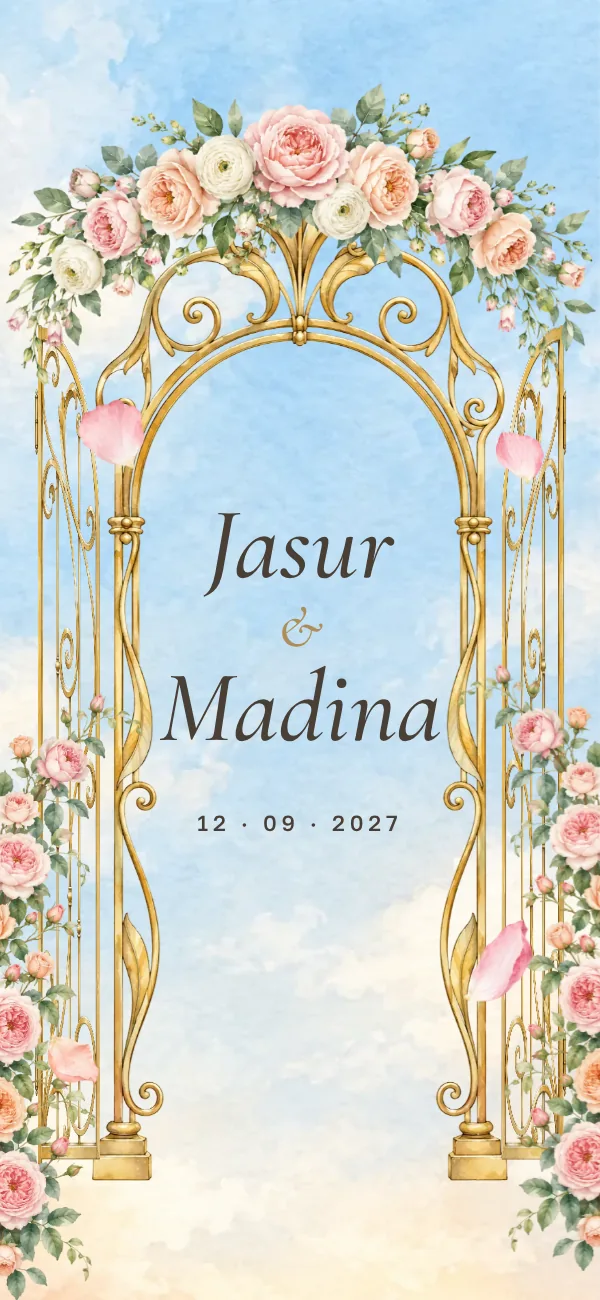
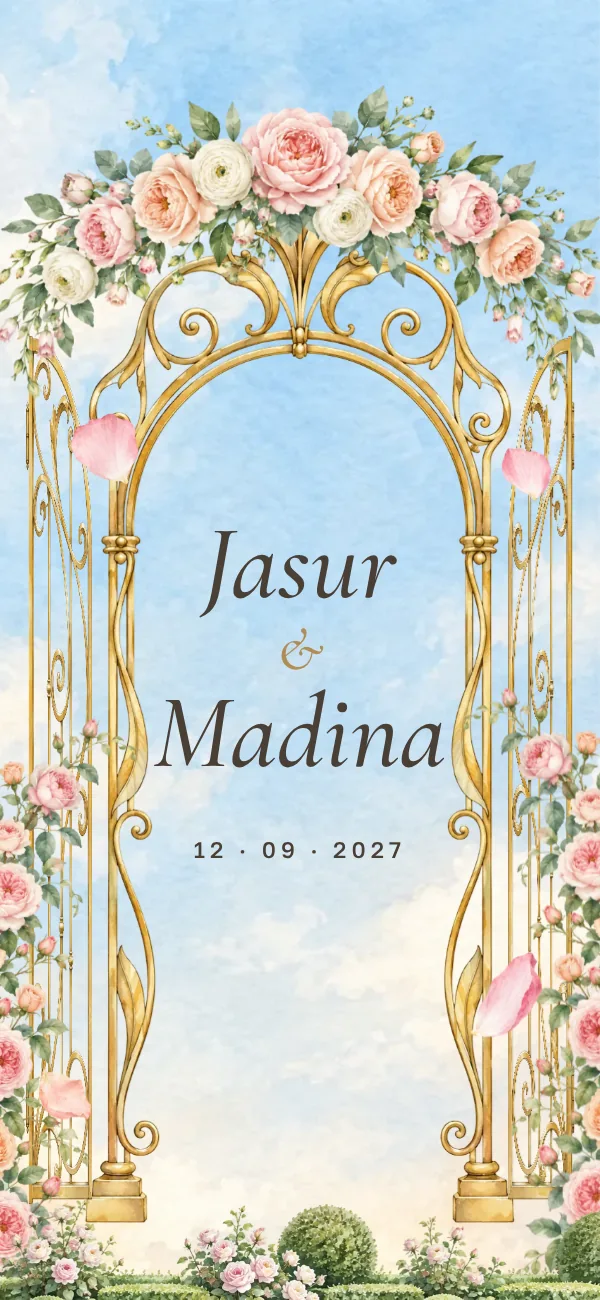
Shato: match Figma hero (920/860 with garden hedge), section heights, dress subtitle, posters
Claude-Session: https://claude.ai/code/session_016Xzx6FBjREiHoteT8V9Jy8

diff --git a/src/components/templates/shato/ShatoSite.tsx b/src/components/templates/shato/ShatoSite.tsx
@@ -318,9 +318,15 @@ function Gate({ d, wide, onReveal, onStart, still = false }: { d: D; wide: boole
   }, [still]);
 
   const W = wide ? 1440 : 390;
-  // sahna koordinatasi: gorizontal markazdan
+  // Figma hero balandligi: laptop 920, mobil 860 — sahna pastki chetiga bog‘langan (ekran baland bo‘lsa, tepada osmon ko‘payadi)
+  const HH = wide ? 920 : 860;
+  // sahna koordinatasi: gorizontal markazdan, vertikal — pastki chetdan
   const X = (x: number) => `calc(50% + ${U(x - W / 2)})`;
-  const box = (r: Box, extra?: CSSProperties): CSSProperties => ({ position: "absolute", left: X(r[0]), top: U(r[1]), width: U(r[2]), height: U(r[3]), ...extra });
+  const Y = (y: number) => `calc(100% - ${U(HH - y)})`;
+  const box = (r: Box, extra?: CSSProperties): CSSProperties => ({ position: "absolute", left: X(r[0]), top: Y(r[1]), width: U(r[2]), height: U(r[3]), ...extra });
+  // keyingi bo‘lim (Xush kelibsiz) butalari — Figma’da hero pastini yopadi; sahifa birligida, shunda ulanishda aynan ustma-ust tushadi
+  const PU = (n: number) => `calc(100cqw / ${W} * ${n})`;
+  const bush = wide ? { x: -180, over: 330, w: 1800, h: 771.43 } : { x: -125, over: 150, w: 640, h: 274.29 };
   const frame: Box = wide ? [460, 40, 520, 924.44] : [-7, 110, 404, 718.22];
   const doors: Box[] = wide
     ? [
@@ -361,7 +367,7 @@ function Gate({ d, wide, onReveal, onStart, still = false }: { d: D; wide: boole
     <div
       ref={wrap}
       className={cx(st.gateWrap, still && st.still)}
-      style={vars(still ? { "--u": `calc(100cqw / ${W})`, height: U(wide ? 900 : 815), marginBottom: 0 } : { "--u": wide ? "min(calc(100cqw / 1440), calc(100svh / 1020))" : "min(calc(100cqw / 390), calc(100svh / 890))" })}
+      style={vars(still ? { "--u": `calc(100cqw / ${W})`, height: U(HH), marginBottom: 0 } : { "--u": `min(calc(100cqw / ${W}), calc(100svh / ${HH}))` })}
     >
       <div className={st.gate} aria-label={t("Taklifnoma")} style={still ? { position: "relative", height: "100%", transform: "none" } : undefined}>
         <div className={st.gSky}>
@@ -388,7 +394,7 @@ function Gate({ d, wide, onReveal, onStart, still = false }: { d: D; wide: boole
           </>
         )}
         {/* Darvoza ramkasi — kamera ichiga kiradi (scale 1→1.8, opacity →0) */}
-        <div className={cx(st.gl, st.gZoom)} style={{ transformOrigin: `50% ${U(wide ? 470 : 420)}` }}>
+        <div className={cx(st.gl, st.gZoom)} style={{ transformOrigin: `50% ${Y(wide ? 470 : 420)}` }}>
           <div style={box(frame)}>
             <div className={cx("size-full", st.fadeIn)} style={{ animationDuration: "1s" }}>
               <Img src={`${P}/darvoza.webp`} eager />
@@ -398,17 +404,17 @@ function Gate({ d, wide, onReveal, onStart, still = false }: { d: D; wide: boole
         {/* Ismlar — chuqurlikdan chiqadi */}
         <div className={cx(st.gl, st.gNames)}>
           <h1 className={cx(st.serifI, "absolute text-center")} style={{ left: X(0), width: U(W), top: 0, height: "100%", color: "var(--ink)", lineHeight: 1 }}>
-            <span className={cx("absolute inset-x-0 flex items-center justify-center", st.nameIn)} style={{ top: U(n1Top), height: U(nameBase), animationDelay: "1.2s" }}>
+            <span className={cx("absolute inset-x-0 flex items-center justify-center", st.nameIn)} style={{ top: Y(n1Top), height: U(nameBase), animationDelay: "1.2s" }}>
               <Fit base={nameBase} max={nameMax} deps={d.a}>
                 {d.a}
               </Fit>
             </span>
             {d.b && (
               <>
-                <span className={cx("absolute inset-x-0 block", st.ampIn)} style={{ top: U(ampTop), fontSize: U(wide ? 52 : 40), color: "var(--gold)", animationDelay: "1.45s" }}>
+                <span className={cx("absolute inset-x-0 block", st.ampIn)} style={{ top: Y(ampTop), fontSize: U(wide ? 52 : 40), color: "var(--gold)", animationDelay: "1.45s" }}>
                   &amp;
                 </span>
-                <span className={cx("absolute inset-x-0 flex items-center justify-center", st.nameIn)} style={{ top: U(n2Top), height: U(nameBase), animationDelay: "1.35s" }}>
+                <span className={cx("absolute inset-x-0 flex items-center justify-center", st.nameIn)} style={{ top: Y(n2Top), height: U(nameBase), animationDelay: "1.35s" }}>
                   <Fit base={nameBase} max={nameMax} deps={d.b}>
                     {d.b}
                   </Fit>
@@ -417,13 +423,13 @@ function Gate({ d, wide, onReveal, onStart, still = false }: { d: D; wide: boole
             )}
           </h1>
           {d.dots && (
-            <p className={cx(st.sansM, st.fadeIn, "absolute text-center")} style={{ left: X(0), width: U(W), top: U(single ? dateTop - 20 : dateTop), fontSize: U(wide ? 17 : 15), letterSpacing: U(wide ? 4.08 : 3.3), color: "var(--ink)", animationDelay: "1.7s", whiteSpace: "nowrap" }}>
+            <p className={cx(st.sansM, st.fadeIn, "absolute text-center")} style={{ left: X(0), width: U(W), top: Y(single ? dateTop - 20 : dateTop), fontSize: U(wide ? 17 : 15), letterSpacing: U(wide ? 4.08 : 3.3), color: "var(--ink)", animationDelay: "1.7s", whiteSpace: "nowrap" }}>
               {d.dots}
             </p>
           )}
         </div>
         {/* Tabaqalar (3D ochiladi) + girlyanda — ramka bilan birga kattalashadi */}
-        <div className={cx(st.gl, st.gZoom)} style={{ transformOrigin: `50% ${U(wide ? 470 : 420)}` }}>
+        <div className={cx(st.gl, st.gZoom)} style={{ transformOrigin: `50% ${Y(wide ? 470 : 420)}` }}>
           {doors.map((b, i) => {
             const o = doorContent(b, i === 1);
             const c = doorClosed(frame, i === 1);
@@ -470,6 +476,13 @@ function Gate({ d, wide, onReveal, onStart, still = false }: { d: D; wide: boole
             </div>
           ))}
         </div>
+        <div className={st.gl} style={{ transform: "none" }}>
+          <div style={{ position: "absolute", left: `calc(50% + ${PU(bush.x - W / 2)})`, bottom: PU(bush.over - bush.h), width: PU(bush.w), height: PU(bush.h) }}>
+            <div className={cx("size-full", st.riseIn)} style={{ animationDelay: "0.35s" }}>
+              <Img src={`${P}/butalar.webp`} eager />
+            </div>
+          </div>
+        </div>
       </div>
     </div>
   );
@@ -498,12 +511,12 @@ function Welcome({ d, wide, ready, tail, z }: { d: D; wide: boolean; ready: bool
         <p
           key={i}
           data-a="up"
-          style={vars({ fontSize: U(wide ? 20 : 17), lineHeight: wide ? 1.6 : 1.55, color: "var(--ink)", marginTop: U(i === 0 ? (wide ? 33 : 58) : wide ? 34 : 20), whiteSpace: "pre-line", overflowWrap: "anywhere", "--y": 20, "--d": `${0.25 + i * 0.08}s`, maxWidth: center ? undefined : U(470) })}
+          style={vars({ fontSize: U(wide ? 20 : 17), lineHeight: wide ? 1.6 : 1.55, color: "var(--ink)", marginTop: U(i === 0 ? (wide ? 33 : 54) : wide ? 34 : 20), whiteSpace: "pre-line", overflowWrap: "anywhere", "--y": 20, "--d": `${0.25 + i * 0.08}s`, maxWidth: center ? undefined : U(470) })}
         >
           {p}
         </p>
       ))}
-      <p data-a="glow" className={st.serifI} style={vars({ fontSize: U(wide ? 44 : 36), color: "var(--gold)", marginTop: U(d.paragraphs.length ? (wide ? 24 : 36) : 28), whiteSpace: "nowrap", "--d": "0.6s" })}>
+      <p data-a="glow" className={st.serifI} style={vars({ fontSize: U(wide ? 44 : 36), lineHeight: 1.2, color: "var(--gold)", marginTop: U(d.paragraphs.length ? (wide ? 24 : 36) : 28), whiteSpace: "nowrap", "--d": "0.6s" })}>
         {d.mono}
       </p>
     </>
@@ -766,19 +779,19 @@ function Stop({ it, i, wide, last, petal }: { it: ProgramItem; i: number; wide: 
   const icon = programIcon(it, i);
   if (wide)
     return (
-      <div className="relative flex flex-col items-center text-center" style={{ width: U(260) }}>
+      <div className="relative flex flex-col items-center text-center" style={{ width: U(270) }}>
         <div data-a="paint" style={vars({ width: U(180), height: U(180), "--d": `${0.15 + i * 0.12}s` })}>
           <Img src={icon} contain />
         </div>
         <span data-a="drop" className={st.dotGold} style={vars({ width: U(9), height: U(9), marginTop: U(-4.5), "--d": `${0.5 + i * 0.12}s` })} />
-        <p data-a="up" className={cx(st.serifI, st.clamp2)} style={vars({ fontSize: U(36), lineHeight: 1, color: "var(--ink)", marginTop: U(25.5), width: U(236), paddingBottom: "0.08em", "--y": 20, "--d": `${0.3 + i * 0.12}s` })}>
+        <p data-a="up" className={cx(st.serifI, st.clamp2)} style={vars({ fontSize: U(36), lineHeight: 1, color: "var(--ink)", marginTop: U(25.5), width: U(266), paddingBottom: "0.08em", "--y": 20, "--d": `${0.3 + i * 0.12}s` })}>
           {it.title}
         </p>
         <p data-a="flip" className={st.serifB} style={vars({ fontSize: U(30), color: "var(--gold)", marginTop: U(10), lineHeight: 1.2, "--d": `${0.45 + i * 0.12}s` })}>
           {it.time}
         </p>
         {it.note && (
-          <p data-a="up" className={cx(st.sans, st.clamp2)} style={vars({ fontSize: U(17), lineHeight: 1.45, color: "var(--muted)", marginTop: U(8), width: U(236), "--y": 16, "--d": `${0.5 + i * 0.12}s` })}>
+          <p data-a="up" className={cx(st.sans, st.clamp2)} style={vars({ fontSize: U(17), lineHeight: 1.45, color: "var(--muted)", marginTop: U(8), width: U(256), "--y": 16, "--d": `${0.5 + i * 0.12}s` })}>
             {it.note}
           </p>
         )}
@@ -847,7 +860,7 @@ function Program({ d, wide, ready, tail, z }: { d: D; wide: boolean; ready: bool
         <div className="relative flex flex-col items-center" style={{ marginTop: U(48), gap: U(56), zIndex: 2 }}>
           {rows.map((row, ri) => (
             <div key={ri} className="relative flex justify-center">
-              <span data-a="lineX" className="absolute" style={vars({ left: U(130 - 60), right: U(130 - 60), top: U(180), height: 1, background: "rgba(176,141,87,.5)", "--d": `${0.1 + ri * 0.2}s` })} />
+              <span data-a="lineX" className="absolute" style={vars({ left: U(135 - 60), right: U(135 - 60), top: U(180), height: 1, background: "rgba(176,141,87,.5)", "--d": `${0.1 + ri * 0.2}s` })} />
               {row.map((it, i) => (
                 <Stop key={i} it={it} i={ri * rows[0].length + i} wide last={false} />
               ))}
@@ -893,7 +906,7 @@ function Details({ d, wide, ready, tail, z, linkable }: { d: D; wide: boolean; r
         </>
       )}
       <div className="relative" style={{ marginLeft: v(28, 420), paddingTop: v(140, 150), width: v(334, 600), zIndex: 3 }}>
-        <div data-a="rise" className={cx(st.olive, "relative flex flex-col items-center justify-center text-center")} style={vars({ minHeight: v(640, 700), borderRadius: v(167, 300), padding: wide ? `${U(150)} ${U(60)} ${U(150)}` : `${U(110)} ${U(40)} ${U(120)}`, gap: v(14, 16), "--y": 80, "--t": "1.2s" })}>
+        <div data-a="rise" className={cx(st.olive, "relative flex flex-col items-center justify-center text-center")} style={vars({ minHeight: v(945, 911), borderRadius: v(167, 300), padding: wide ? `${U(150)} ${U(60)} ${U(150)}` : `${U(110)} ${U(40)} ${U(120)}`, gap: v(14, 16), "--y": 80, "--t": "1.2s" })}>
           <p className={st.serifI} style={{ fontSize: v(42, 52), lineHeight: 1, color: "var(--cream)", width: v(230, 480) }}>
             {t("Tafsilotlar va tilaklar")}
           </p>
@@ -959,7 +972,10 @@ function Dress({ d, wide, ready, tail, z }: { d: D; wide: boolean; ready: boolea
       <p data-a="blur" className={cx(st.serifI, "text-center")} style={{ paddingTop: U(wide ? 110 : 96), fontSize: U(wide ? 72 : 54), lineHeight: 1, color: "var(--ink)" }}>
         {t("Dress-kod")}
       </p>
-      <div className="relative flex justify-center" style={{ marginTop: U(wide ? 48 : 34) }}>
+      <p data-a="up" className={cx(st.sans, "text-center")} style={vars({ marginTop: U(14), marginInline: "auto", maxWidth: U(wide ? 900 : 330), fontSize: U(wide ? 18 : 15), lineHeight: wide ? 1.35 : 1.3, color: "var(--muted)", "--y": 14, "--d": "0.15s" })}>
+        {t("Shu kunning go‘zalligini birga yaratamiz")}
+      </p>
+      <div className="relative flex justify-center" style={{ marginTop: U(wide ? 40 : 30) }}>
         <div data-a="archOpen" className={cx(st.dressCard, "relative flex flex-col items-center text-center")} style={vars({ width: s(342), padding: `${s(74)} ${s(24)} ${s(28)}`, gap: s(12), borderRadius: `${s(171)} ${s(171)} ${s(28)} ${s(28)}`, "--d": "0.15s" })}>
           <p className={st.serifI} style={{ fontSize: s(40), lineHeight: 1.1, color: "var(--ink)" }}>
             {x.title}
@@ -1115,7 +1131,7 @@ function Rsvp({ d, wide, ready, slug, mode, tail, z }: { d: D; wide: boolean; re
   );
   const pad = wide ? U(19) : U(16);
   return (
-    <Sec ready={ready} z={z} id="shato-javob" style={{ background: "var(--blush)", paddingBottom: U((wide ? 240 : 230) + tail) }}>
+    <Sec ready={ready} z={z} id="shato-javob" style={{ background: "var(--blush)", paddingBottom: U((wide ? 311 : 335) + tail), minHeight: U((wide ? 1380 : 1242) + tail) }}>
       <Pic src={`${P}/butalar.webp`} r={wide ? [-180, -330, 1800, 771.43] : [-125, -150, 640, 274.29]} z={1} />
       {wide && (
         <>
@@ -1294,14 +1310,14 @@ const OVER: Record<Key, [number, number]> = {
 };
 /** Har bo‘lim ostidagi bo‘sh joy (Figma bo‘yicha) — keyingi bo‘lim bezagi shundan katta bo‘lsa, bo‘lim cho‘ziladi */
 const ROOM: Record<Key, [number, number]> = {
-  welcome: [127, 120],
+  welcome: [127, 165],
   date: [99, 110],
   venue: [300, 380],
   program: [118, 160],
   details: [150, 190],
   dress: [110, 130],
   moments: [72, 120],
-  rsvp: [230, 240],
+  rsvp: [335, 311],
   final: [0, 0],
 };
 

diff --git a/src/lib/tplImgVersions.ts b/src/lib/tplImgVersions.ts
@@ -24,18 +24,18 @@ export const tplImgVersions: Record<string, string> = {
   "parvoz-ru-laptop.webp": "5e1ed872",
   "parvoz-ru-phone-long.webp": "32b2cd71",
   "parvoz-ru-phone.webp": "f57be9c4",
-  "shato-en-laptop-long.webp": "ea6f0898",
-  "shato-en-laptop.webp": "89012c11",
-  "shato-en-phone-long.webp": "65b075a6",
-  "shato-en-phone.webp": "f5eadb9a",
-  "shato-laptop-long.webp": "d960710f",
-  "shato-laptop.webp": "89012c11",
-  "shato-phone-long.webp": "26f7a8ea",
-  "shato-phone.webp": "68d769bc",
-  "shato-ru-laptop-long.webp": "768733dd",
-  "shato-ru-laptop.webp": "615133a1",
-  "shato-ru-phone-long.webp": "e070f4e0",
-  "shato-ru-phone.webp": "76295e2d",
+  "shato-en-laptop-long.webp": "1eed49c2",
+  "shato-en-laptop.webp": "714cc328",
+  "shato-en-phone-long.webp": "ff8c5d20",
+  "shato-en-phone.webp": "f29158ca",
+  "shato-laptop-long.webp": "0b2d22db",
+  "shato-laptop.webp": "714cc328",
+  "shato-phone-long.webp": "70f75e13",
+  "shato-phone.webp": "f29158ca",
+  "shato-ru-laptop-long.webp": "9ef1dd89",
+  "shato-ru-laptop.webp": "45f5ca70",
+  "shato-ru-phone-long.webp": "fba9abe0",
+  "shato-ru-phone.webp": "a746acd8",
   "zumrad-en-laptop-long.webp": "420ab45f",
   "zumrad-en-laptop.webp": "74b26331",
   "zumrad-en-phone-long.webp": "47f69201",

diff --git a/src/lib/i18n/ru/invite.ts b/src/lib/i18n/ru/invite.ts
@@ -223,4 +223,5 @@ export const ru: Record<string, string> = {
   "Iqtibos yonida, ark ichida": "Рядом с цитатой, в арке",
   "Iltimos, sahifani yangilang.": "Пожалуйста, обновите страницу.",
   "Sahifani yangilash": "Обновить страницу",
+  "Shu kunning go‘zalligini birga yaratamiz": "Создадим красоту этого дня вместе",
 };

diff --git a/src/lib/i18n/en/invite.ts b/src/lib/i18n/en/invite.ts
@@ -248,4 +248,5 @@ export const en: Record<string, string> = {
   "Iqtibos yonida, ark ichida": "Next to the quote, in an arch",
   "Iltimos, sahifani yangilang.": "Please reload the page.",
   "Sahifani yangilash": "Reload page",
+  "Shu kunning go‘zalligini birga yaratamiz": "Let’s make this day beautiful together",
 };
